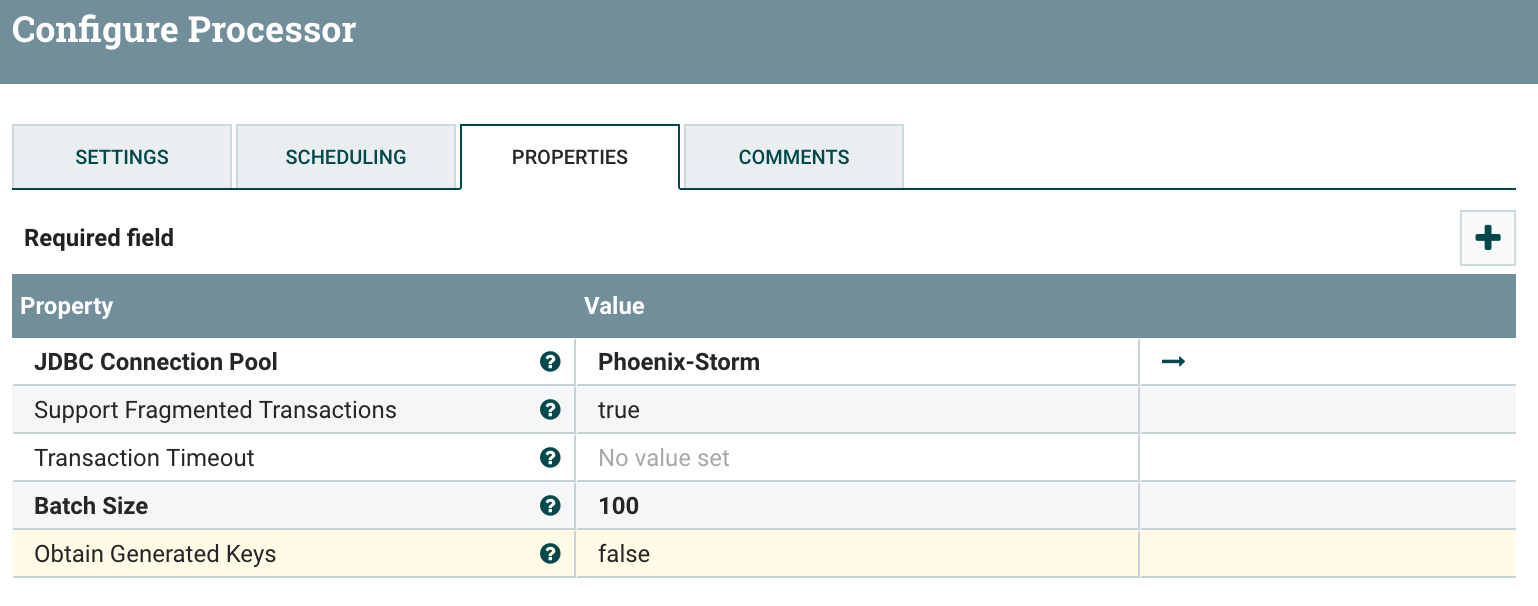
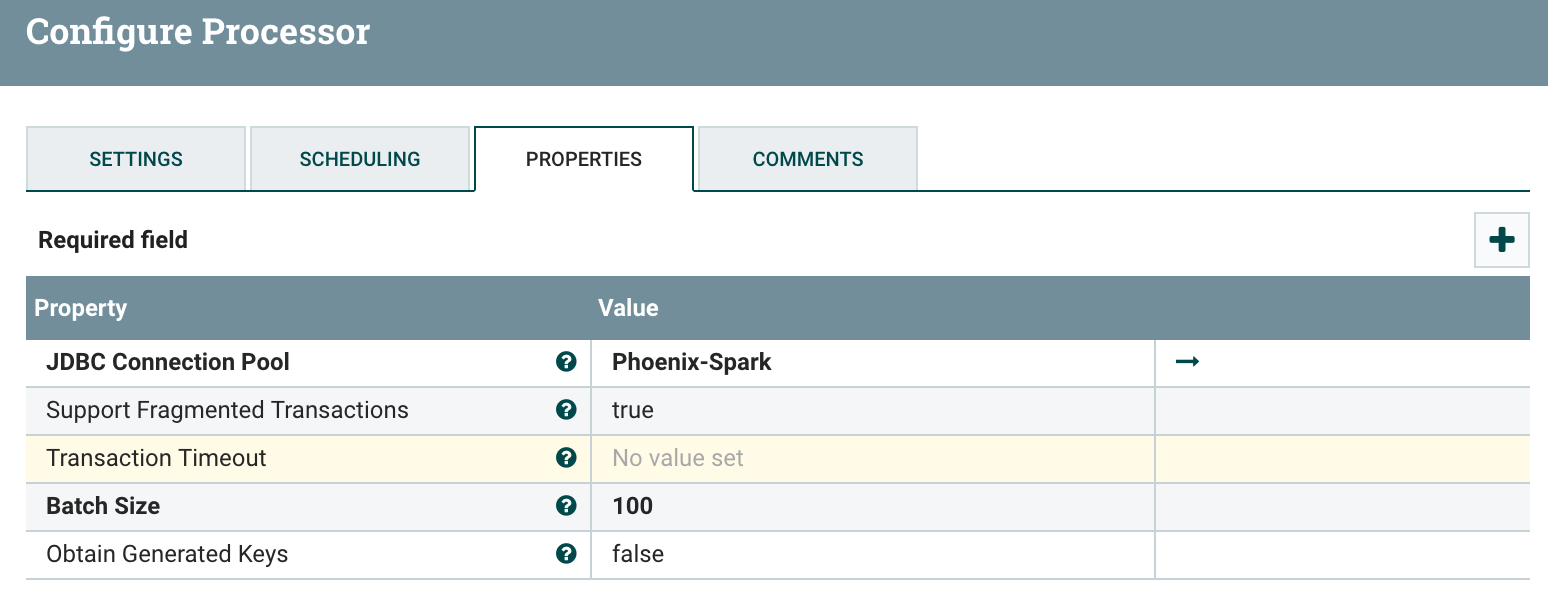
Update Screenshots
Update Screenshots

diff --git a/README.md b/README.md
@@ -122,7 +122,7 @@ http://your-vm-ip:9090/nifi/
 ```
 ## Building a Flow in NiFi to fetch and parse nifi-app.log
 
-1) Let us build a small flow on NiFi canvas to read app log generated by NiFi itself to feed to Storm:
+1) Let us build a small flow on NiFi canvas to read app log generated by NiFi itself to feed to Spark:
 	
 2) Drop a  "**TailFile**" Processor to canvas to read lines added to "**/opt/HDF-2.1.1/nifi-1.1.0.2.1.1.0-2/logs/nifi-app.log**". Auto Terminate relationship Failure. 
 ![alt tag](https://github.com/jobinthompu/NiFi-Spark-Feeding-Data-to-Spark-Streaming/blob/master/resources/images/TailFile.jpg)
@@ -225,7 +225,7 @@ Destination : flowfile-content
 ```
 ![alt tag](https://github.com/jobinthompu/NiFi-Spark-Feeding-Data-to-Spark-Streaming/blob/master/resources/images/AttributesToJSON.jpg)
 
-5) Create and enable DBCPConnectionPool with name "Phoenix-Storm" with below configuration:
+5) Create and enable DBCPConnectionPool with name "Phoenix-Spark" with below configuration:
 
 ```
 Database Connection URL : jdbc:phoenix:sandbox.hortonworks.com:2181:/hbase-unsecure
